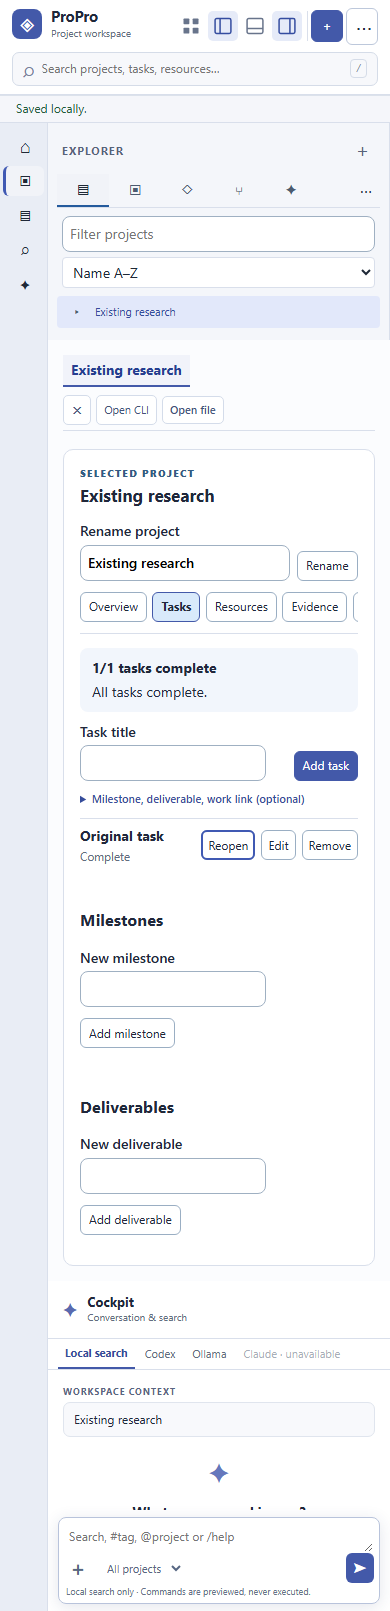
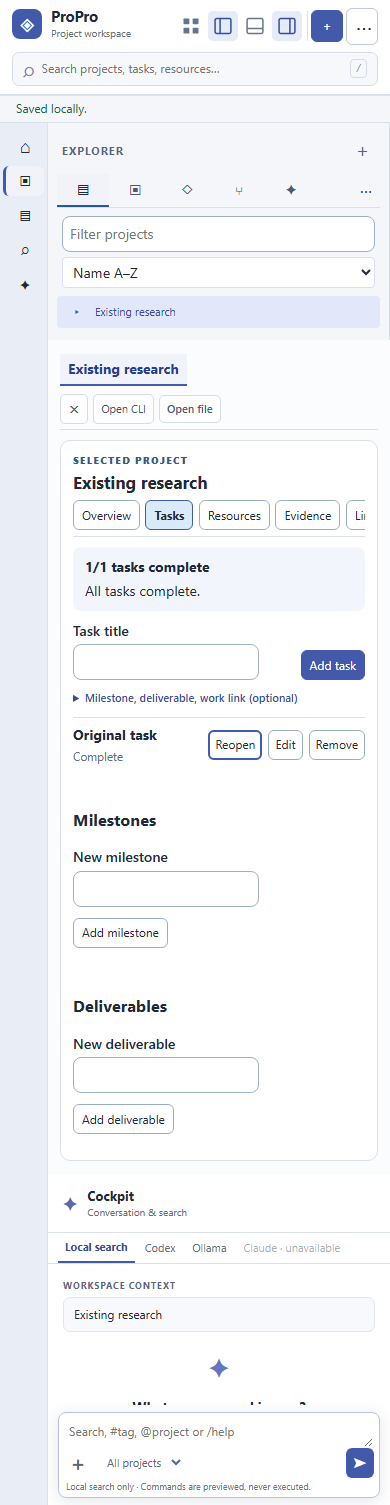
Keep project tasks above the fold
Change-Level: RUN
Dev-Docs: updated
Validation: npm test; targeted Chromium task tests and axe checks

diff --git a/styles.css b/styles.css
@@ -284,6 +284,13 @@ body { background:#f5f6fa; }
 #context .composer-note{margin:3px 2px 0;font-size:9px;line-height:1.3}
 .agent-environments{display:flex;flex:none;gap:3px;border-bottom:1px solid var(--border);padding:0 10px}
 .agent-environments button{border:0;border-radius:0;background:transparent;min-height:30px;padding:4px 7px;font-size:11px;color:#626d80}
+
+/* Keep the active work visible within the desktop viewport. */
+#content.cockpit-workbench__content { padding:14px clamp(12px,1.5vw,20px); }
+.editor-tabs { margin-bottom:10px; }
+.detail-panel { margin-top:10px; padding:12px; }
+.detail-tabs { padding:6px 0; }
+.detail-body { padding-top:10px; }
 .agent-environments button[aria-selected=true]{border-bottom:2px solid #4359a9;color:#354c9a;font-weight:650}
 .agent-session-tools{display:flex;flex:none;gap:5px;padding:6px 10px;border-bottom:1px solid var(--border)}
 .agent-session-tools select{flex:1;min-width:0;max-width:100%;font-size:11px;border:1px solid #d5dce8;border-radius:5px;padding:4px}

diff --git a/docs/TASK-MANAGEMENT.md b/docs/TASK-MANAGEMENT.md
@@ -16,4 +16,4 @@ For Governance Commons, the local editorial Portal is currently at `http://127.0
 
 ## Compact task capture (2026-11-08)
 
-The task title and Add button now share one row. Milestone, deliverable, and work destination fields remain available behind an optional disclosure, which opens automatically when editing a task that already uses them. The task list begins higher in the project view; the underlying task records and version 1 export format are unchanged.
+The task title and Add button now share one row. Milestone, deliverable, and work destination fields remain available behind an optional disclosure, which opens automatically when editing a task that already uses them. Project renaming stays on Overview, leaving the Tasks view focused on current work. The task list begins higher in the project view; the underlying task records and version 1 export format are unchanged.
